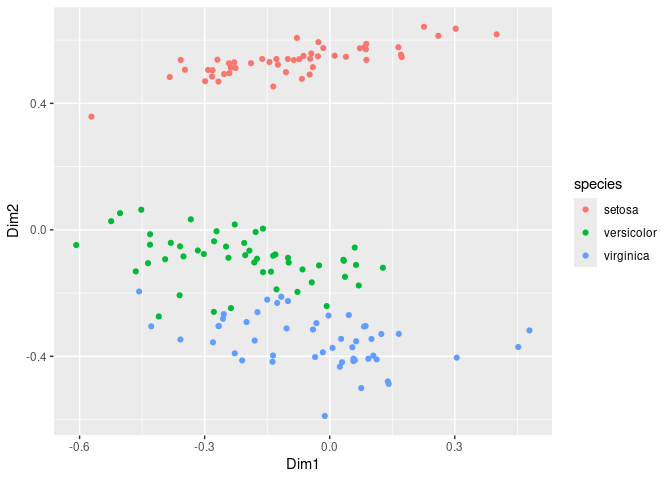
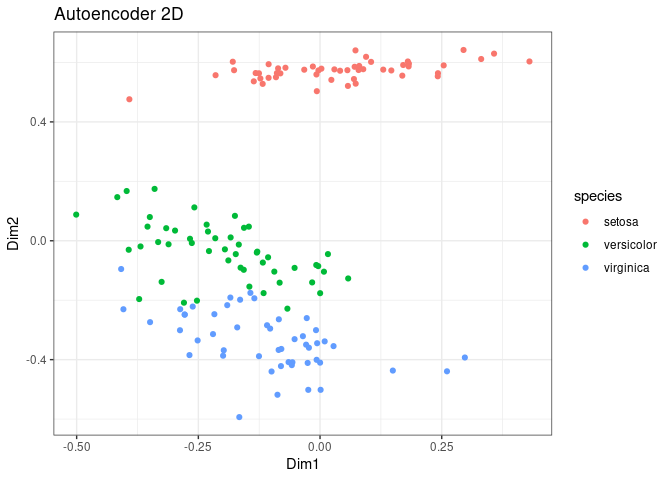
Added more text

diff --git a/README.md b/README.md
@@ -6,22 +6,36 @@
 <!-- badges: start -->
 <!-- badges: end -->
 
-The goal of NeuralNetworkNMDS is to show how you can use neural networks
-in order to achieve a similar process to the one used in NMDS, that is
-take a n-dimensional data set and reduce it to n-k dimensions, typically
-two or three for graphing purposes.
+The goal of NeuralNetworkNMDS is to demonstrate how neural networks can
+be used to achieve a similar process to Non-metric Multidimensional
+Scaling (NMDS). This involves taking an n-dimensional data set and
+reducing it to n-k dimensions, typically two or three for visualization
+purposes. This approach leverages the power of autoencoders, a type of
+neural network, to capture complex, non-linear relationships in the
+data.
+
+## Example 1: Iris Dataset
+
+In this example, we will use the famous Iris dataset. We will preprocess
+the data by scaling the numeric features and then use an autoencoder to
+reduce its dimensions. Finally, we will visualize the results using
+ggplot2.
+
+### Preparing the Dataset
+
+First, we load the necessary libraries and prepare the Iris dataset by
+selecting all columns except for the species, scaling the numeric
+features, and converting them to numeric types:
 
 ``` r
 library(h2o)
 library(vegan)
 library(dplyr)
 library(ggplot2)
+library(cluster)
+library(Rtsne)
+library(patchwork)
 ```
-
-## Example 1 Iris dataset
-
-we will use as a first example the iris dataset, for this we will use
-all columns except for the species and then plot it using ggplot2:
 
 ``` r
 Data <- iris |> 
@@ -31,29 +45,26 @@ Data <- iris |>
   dplyr::mutate_all(as.numeric)
 ```
 
-Now we use an autoencoder
+### Building the Autoencoder
+
+We use an autoencoder to reduce the dimensions of the dataset.
+Autoencoders are neural networks designed to learn efficient codings of
+the input data. Here, we will use an autoencoder with three hidden
+layers, with the middle layer (the bottleneck) reducing the data to two
+dimensions.
 
 ``` r
-# Define the autoencoder model
 # Initialize the H2O cluster
 h2o.init()
-#> 
-#> H2O is not running yet, starting it now...
-#> 
-#> Note:  In case of errors look at the following log files:
-#>     /tmp/Rtmpe6I5qC/file3e8198510a5c/h2o_au687614_started_from_r.out
-#>     /tmp/Rtmpe6I5qC/file3e819207f00d0/h2o_au687614_started_from_r.err
-#> 
-#> 
-#> Starting H2O JVM and connecting: ... Connection successful!
+#>  Connection successful!
 #> 
 #> R is connected to the H2O cluster: 
-#>     H2O cluster uptime:         2 seconds 827 milliseconds 
+#>     H2O cluster uptime:         9 minutes 53 seconds 
 #>     H2O cluster timezone:       Europe/Copenhagen 
 #>     H2O data parsing timezone:  UTC 
 #>     H2O cluster version:        3.44.0.3 
 #>     H2O cluster version age:    5 months and 30 days 
-#>     H2O cluster name:           H2O_started_from_R_au687614_daj866 
+#>     H2O cluster name:           H2O_started_from_R_au687614_iyl317 
 #>     H2O cluster total nodes:    1 
 #>     H2O cluster total memory:   3.83 GB 
 #>     H2O cluster total cores:    8 
@@ -99,47 +110,51 @@ encoded_data_h2o <- h2o.deepfeatures(autoencoder, data_h2o, layer = 2)
 # Convert to a data frame for plotting
 encoded_data <- as.data.frame(encoded_data_h2o)
 colnames(encoded_data) <- c("Dim1", "Dim2")
-
-h2o.shutdown(prompt = FALSE)
-
 encoded_data$species <- iris$Species
 ```
 
-now we can visalize this
+### Visualizing the Results
+
+We visualize the reduced dimensions using ggplot2. Each point represents
+a data sample, colored by its species.
 
 ``` r
-ggplot(encoded_data, aes(x = Dim1, y = Dim2, color = species)) + geom_point()
+AutoEnc <- ggplot(encoded_data, aes(x = Dim1, y = Dim2, color = species)) + geom_point() + theme_bw() + ggtitle("Autoencoder 2D")
+
+AutoEnc
 ```
 
 ![](README_files/figure-gfm/unnamed-chunk-2-1.png)<!-- -->
 
+## Advantages of Using Autoencoders over NMDS
+
 Using an autoencoder (or a neural network-based approach) for
 dimensionality reduction has several advantages over Non-metric
 Multidimensional Scaling (NMDS), particularly for certain types of data
-and applications. Here are some of the key advantages:
+and applications:
 
 1.  **Handling Non-linear Relationships:**
-    - **Autoencoder:** Neural networks, including autoencoders, are
-      powerful in capturing complex, non-linear relationships within the
-      data. They can model intricate patterns that linear or simpler
-      non-linear techniques might miss.
-    - **NMDS:** NMDS is designed to preserve the rank order of distances
-      between points in the reduced dimensionality space, which works
-      well for capturing the general structure of data but may struggle
-      with highly non-linear relationships.
+    - **Autoencoder:** Neural networks are powerful in capturing
+      complex, non-linear relationships within the data. They can model
+      intricate patterns that linear or simpler non-linear techniques
+      might miss.
+    - **NMDS:** NMDS preserves the rank order of distances between
+      points in the reduced dimensionality space, which works well for
+      capturing the general structure of data but may struggle with
+      highly non-linear relationships.
 2.  **Scalability:**
-    - **Autoencoder:** Neural networks can be scaled to handle large
-      datasets efficiently using modern hardware accelerations like
-      GPUs. This makes autoencoders suitable for high-dimensional and
-      large-scale data.
+    - **Autoencoder:** Neural networks can handle large datasets
+      efficiently using modern hardware accelerations like GPUs. This
+      makes autoencoders suitable for high-dimensional and large-scale
+      data.
     - **NMDS:** NMDS can become computationally expensive and slow as
       the number of data points and dimensions increases, making it less
       suitable for very large datasets.
 3.  **Feature Learning:**
     - **Autoencoder:** Autoencoders can learn meaningful features
       directly from the data without explicit feature engineering. The
-      hidden layers can capture various levels of abstraction, leading
-      to a more informative lower-dimensional representation.
+      hidden layers capture various levels of abstraction, leading to a
+      more informative lower-dimensional representation.
     - **NMDS:** NMDS focuses solely on preserving the distance
       (dissimilarity) structure and does not learn new features or
       representations of the data.
@@ -168,6 +183,30 @@ and applications. Here are some of the key advantages:
     - **NMDS:** NMDS does not provide a mechanism for reconstructing the
       original data from the reduced dimensions.
 
+### Recommendations for Neural Network Architecture
+
+When choosing the architecture of the neural network for different
+datasets, consider the following guidelines based on the dimensions of
+the data:
+
+- **Small-scale data (features \< 10):**
+  - Hidden layers: 2-3 layers
+  - Neurons per layer: 5-10
+  - Example: `hidden = c(5, 2, 5)`
+- **Medium-scale data (features 10-50):**
+  - Hidden layers: 3-4 layers
+  - Neurons per layer: 10-50
+  - Example: `hidden = c(20, 10, 2, 10, 20)`
+- **Large-scale data (features \> 50):**
+  - Hidden layers: 4-5 layers
+  - Neurons per layer: 50-200
+  - Example: `hidden = c(100, 50, 10, 2, 10, 50, 100)`
+
+Adjust the number of neurons and layers according to the complexity and
+size of your dataset. More complex data may require deeper networks with
+more neurons, while simpler data can often be effectively modeled with
+shallower networks.
+
 ### Summary
 
 While NMDS is a powerful and interpretable method for dimensionality
@@ -179,3 +218,114 @@ within larger machine learning and deep learning frameworks. However,
 the choice between NMDS and autoencoders should be guided by the
 specific requirements of the task, the nature of the data, and the
 computational resources available.
+
+Certainly! Here’s the continuation of your Rmd file, including the
+methods for evaluating the performance of the autoencoder in
+representing the data:
+
+### Evaluating the Autoencoder
+
+To diagnose how well the data is represented in the autoencoder, we can
+use several methods:
+
+#### 1. Reconstruction Error
+
+Reconstruction error measures the difference between the original input
+data and the data reconstructed by the autoencoder. A lower
+reconstruction error indicates better performance.
+
+``` r
+# Calculate reconstruction error
+original_data <- as.data.frame(data_h2o)
+reconstructed_data <- as.data.frame(h2o.predict(autoencoder, data_h2o))
+#>   |                                                                              |                                                                      |   0%  |                                                                              |======================================================================| 100%
+```
+
+``` r
+
+mse <- colMeans((original_data - reconstructed_data)^2)
+mean_mse <- mean(mse)
+```
+
+the mean square error is 0.057
+
+#### 2. Visualization
+
+Visualizing the lower-dimensional representation can provide a
+qualitative assessment of how well the structure of the data is
+preserved.
+
+``` r
+ggplot(encoded_data, aes(x = Dim1, y = Dim2, color = species)) + 
+  geom_point() + 
+  labs(title = "2D Representation of Iris Data using Autoencoder")
+```
+
+![](README_files/figure-gfm/visualize_reduced_dimensions-1.png)<!-- -->
+
+#### 3. Silhouette Score
+
+The silhouette score measures how similar an object is to its own
+cluster compared to other clusters, which can be used to assess the
+quality of clustering in the reduced dimensional space.
+
+``` r
+silhouette_score <- silhouette(as.integer(factor(encoded_data$species)), dist(encoded_data[, 1:2]))
+avg_silhouette_width <- mean(silhouette_score[, 3])  # Average silhouette width
+```
+
+The average Silhouette Width is 0.5
+
+#### 4. Explained Variance
+
+Explained variance assesses how much information (variance) is retained
+in the lower-dimensional representation.
+
+``` r
+explained_variance <- var(encoded_data$Dim1) + var(encoded_data$Dim2)
+total_variance <- sum(apply(Data, 2, var))
+explained_variance_ratio <- explained_variance / total_variance
+```
+
+The Explained Variance Ratio is 0.045
+
+#### 5. Comparison with Other Methods
+
+Comparing the autoencoder’s performance with other dimensionality
+reduction methods, such as t-SNE, can provide additional insights.
+
+``` r
+#tsne_data <- Rtsne(Data, dims = 2)$Y
+#tsne_df <- data.frame(Dim1 = tsne_data[, 1], Dim2 = tsne_data[, 2], species = iris$Species)
+
+#TSNE <- ggplot(tsne_df, aes(x = Dim1, y = Dim2, color = species)) + 
+#  geom_point() + 
+#  labs(title = "2D Representation of Iris Data using t-SNE") + theme_bw()
+```
+
+### Summary
+
+By using these methods, you can evaluate how well the autoencoder
+captures the underlying structure of the data:
+
+- **Reconstruction Error:** Quantifies how well the autoencoder can
+  recreate the input data.
+- **Visualization:** Provides a visual assessment of the clustering and
+  structure.
+- **Silhouette Score:** Measures the quality of clustering in the
+  reduced space.
+- **Explained Variance:** Assesses how much of the data’s variance is
+  retained in the reduced dimensions.
+- **Comparison with Other Methods:** Provides context by comparing the
+  autoencoder’s performance with other dimensionality reduction
+  techniques.
+
+Each method provides a different perspective, and using a combination of
+them will give a comprehensive understanding of the autoencoder’s
+effectiveness in representing the data.
+
+at the end of the code shut of the connection
+
+``` r
+h2o.shutdown(prompt = FALSE)
+```
